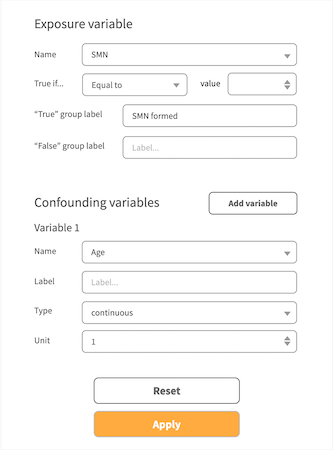
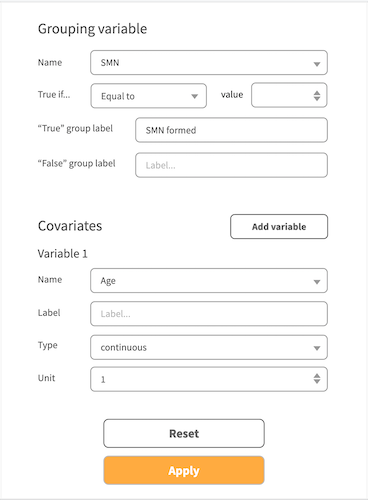
Update certain terms per discussion #4
- exposure variable -> grouping variable
- confounding variable -> covariate

diff --git a/GEN3/table-one-tool/requirements.md b/GEN3/table-one-tool/requirements.md
@@ -14,7 +14,7 @@ The Table One tool can be seen as a combination of the following elements:
   - A UI component that 1) allows users to provide input, 2) sends HTTP request to Microservice with the user input, 3) fetches the response JSON data from Microservice, and 4) generates/updates the table using the fetched data.
   - React Component consists of three UI child components: 1) a user input form, and 2) a table output.
 - Microservice
-  - A newly created web service that 1) listens to HTTP requests with user input as a payload, 2) fetches the data from Data Source with the filters, 3) generate table data using the fetched data with the exposure/confounding variables and test type, and 4) serve the table data to the client as the payload for HTTP response.
+  - A newly created web service that 1) listens to HTTP requests with user input as a payload, 2) fetches the data from Data Source with the filters, 3) generate table data using the fetched data with the grouping variable/covariates and test type, and 4) serve the table data to the client as the payload for HTTP response.
   - Microservice will be implemented as an endpoint of [`PcdcAnalysisTools`](https://github.com/chicagopcdc/PcdcAnalysisTools) service.
 - Data Source
   - A database or an intermediary service that responds to database queries.
@@ -44,9 +44,9 @@ Table One tool's React Component will be part of the `<GuppyDataExplorer>` compo
 The following features and functionalities are required of React Component:
 
 - Access to the filter values set by users via `<ExplorerFilter>` UI
-- A child component to encode user input for "exposure variable" and "confounding variables".
-  - input fields for "exposure variable" should allow the user to 1) select a variable, 2) choose "true" condition (specific category or range of values)
-  - input fields for "confounding variables" should allow the user to add variables to use as well as for each variable to 1) choose type (categorical, bucketized, continuous), 2) set of values (categorical) or cutoff values (bucketized), and 3) (optional) labels for each category or bucket.
+- A child component to encode user input for "grouping variable" and "covariates".
+  - input fields for "grouping variable" should allow the user to 1) select a variable, 2) choose "true" condition (specific category or range of values)
+  - input fields for "covariates" should allow the user to add variables to use as well as for each variable to 1) choose type (categorical, bucketized, continuous), 2) set of values (categorical) or cutoff values (bucketized), and 3) (optional) labels for each category or bucket.
 - A child component to display table output
 
 #### User input form example
@@ -65,11 +65,11 @@ Table One tool's Microservice is a new endpoint for the [`PcdcAnalysisTools`](ht
 
 The work of generating table data includes:
 
-1. Aggregating counts for each confounding variable
-2. Calculating means or frequencies for each confounding variable
-3. Performing statistical test for each confounding variable
-   - _Two-sample Student's t-test of equal means_ for continuous confounding variable
-   - _Pearson's chi-squared test of homogeneity_ for bucketized or categorical confounding variable
+1. Aggregating counts for each covariate
+2. Calculating means or frequencies for each covariate
+3. Performing statistical test for each covariate
+   - _Two-sample Student's t-test of equal means_ for continuous covariate
+   - _Pearson's chi-squared test of homogeneity_ for bucketized or categorical covariate
 
 ### Request API
 
@@ -88,7 +88,7 @@ Microservice listens to POST request with the payload in JSON of the following s
       }
     }
   },
-  "exposureVariable": {
+  "groupingVariable": {
     "name": "",
     "trueIf": {
       "value": "",
@@ -99,7 +99,7 @@ Microservice listens to POST request with the payload in JSON of the following s
       "false": ""
     }
   },
-  "confoundingVariables": [
+  "covariates": [
     {
       "name": "",
       "label": "",
@@ -113,11 +113,11 @@ Microservice listens to POST request with the payload in JSON of the following s
 }
 ```
 
-- `exposureVariable` is a top-level factor used for dividing data into groups to test
+- `groupingVariable` is a top-level factor used for dividing data into groups to test
   - `trueIf` specifies the binary grouping criteria
     - `operator` is set to `"eq"` by default
     - Other `operator` values are available only for continuous variables
-- `confoundingVariables` is an array of the secondary factors
+- `covariates` is an array of the secondary factors
   - `unit` is a number to consider the "unit" value for visual presentation and cutoffs
   - `values` are set for categorical variables only
   - `cutoffs` are set for continuous variables only; resulting bins are inclusive at the lower end and exclusive at the upper end
@@ -125,12 +125,12 @@ Microservice listens to POST request with the payload in JSON of the following s
 
 #### Discussions
 
-- Should we allow using "range" for `exposureVariable.trueIf`?
-  - This can be achieved by accepting an array for `exposureVariable.trueIf.value` value and adding `"in"` option for `exposureVariable.trueIf.operator`, to signal that the "trueIf" condition is a range of values.
-  - When using `exposureVariable.trueIf.operator: "in"`, the value for `exposureVariable.type` will be used to indicate how to parse the `exposureVariable.trueIf.value` value:
+- Should we allow using "range" for `groupingVariable.trueIf`?
+  - This can be achieved by accepting an array for `groupingVariable.trueIf.value` value and adding `"in"` option for `groupingVariable.trueIf.operator`, to signal that the "trueIf" condition is a range of values.
+  - When using `groupingVariable.trueIf.operator: "in"`, the value for `groupingVariable.type` will be used to indicate how to parse the `groupingVariable.trueIf.value` value:
     - if `"continuous"`, the array will look like `[min, max]`
     - otherwise, the array will include a set of values to consider "true"
-  - If this option is to be implemented, it may be a good idea to rename `exposureVariable.trueIf.value` (singular) to `exposureVariable.trueIf.values` (plural)
+  - If this option is to be implemented, it may be a good idea to rename `groupingVariable.trueIf.value` (singular) to `groupingVariable.trueIf.values` (plural)
 
 ### Response API
 
@@ -170,11 +170,11 @@ Microservice sends response with data in JSON of the following shape:
 - `headers` is an array of names for table columns (string)
   - `size` is the column header for presenting total sample size as well as the "true" group size in parentheses.
   - `true` is the column header for presenting values for "true" group that satisfies the `trueIf` condition (see Request API); `false` is the column header for presenting values for "false" group
-- `variables` contains data for the table body where each element includes information on specific `confoundingVariable`
-  - `size.total` is the total sample size; `size.true` is the sample size for the "true" group for `exposureVariable`
+- `variables` contains data for the table body where each element includes information on specific `covariate`
+  - `size.total` is the total sample size; `size.true` is the sample size for the "true" group for `groupingVariable`
   - `pval` is the p-value from the conducted test
-  - `keys` contains data for specific value for `confoundingVariable`
-    - if `name` is empty, data is displayed on the same row as the rest of `confoundingVariable`; otherwise, each "key" will get its own row
+  - `keys` contains data for specific value for `covariate`
+    - if `name` is empty, data is displayed on the same row as the rest of `covariate`; otherwise, each "key" will get its own row
 
 ### Notes on dependencies
 
@@ -182,8 +182,8 @@ While there are multiple Python packages available for conducting statistical te
 
 ## Limitations and expectations
 
-- The current API design restricts `exposureVariable` to be binary. While it is possible to relax this restriction and allow multiple top-level groups, i.e. `exposureVariable` values, this will result in a more complicated backend to implement additional statistical tests to handle such generalized cases.
-- The current API design assumes comparing means (using two-sample Student's t-test for equal means) for any continuous "confounding variable" as this is expected to be the most common use case. Implmenenting a comparison in other statistics between groups for a continuous variable will result in a more complicated backend to support different tests.
+- The current API design restricts `groupingVariable` to be binary. While it is possible to relax this restriction and allow multiple top-level groups, i.e. `groupingVariable` values, this will result in a more complicated backend to implement additional statistical tests to handle such generalized cases.
+- The current API design assumes comparing means (using two-sample Student's t-test for equal means) for any continuous "covariate" as this is expected to be the most common use case. Implmenenting a comparison in other statistics between groups for a continuous variable will result in a more complicated backend to support different tests.
 
 ## Example
 
@@ -191,7 +191,7 @@ While there are multiple Python packages available for conducting statistical te
 
 User-provided values are shown in `monospace`.
 
-- Exposure Variable:
+- Grouping variable:
   - Name: `"SMN"`
   - True if:
     - Value: `1`
@@ -199,7 +199,7 @@ User-provided values are shown in `monospace`.
   - Label for:
     - "True" group: `"SMN Formed"`
     - "False" group: `"No SMN Formed"`
-- Confounding Variables:
+- Covariates:
   - Variable 1:
     - Name: `"AGE"`
     - Label: `"Mean age at diagnosis (mo)"`
@@ -232,7 +232,7 @@ From React Component to Microservice
 ```json
 {
   "patientSearchCriteria": {},
-  "exposureVariable": {
+  "groupingVariable": {
     "name": "SMN",
     "trueIf": {
       "value": "1",
@@ -243,7 +243,7 @@ From React Component to Microservice
       "false": "No SMN Formed"
     }
   },
-  "confoundingVariables": [
+  "covariates": [
     {
       "name": "AGE",
       "label": "Mean age at diagnosis (mo)",
